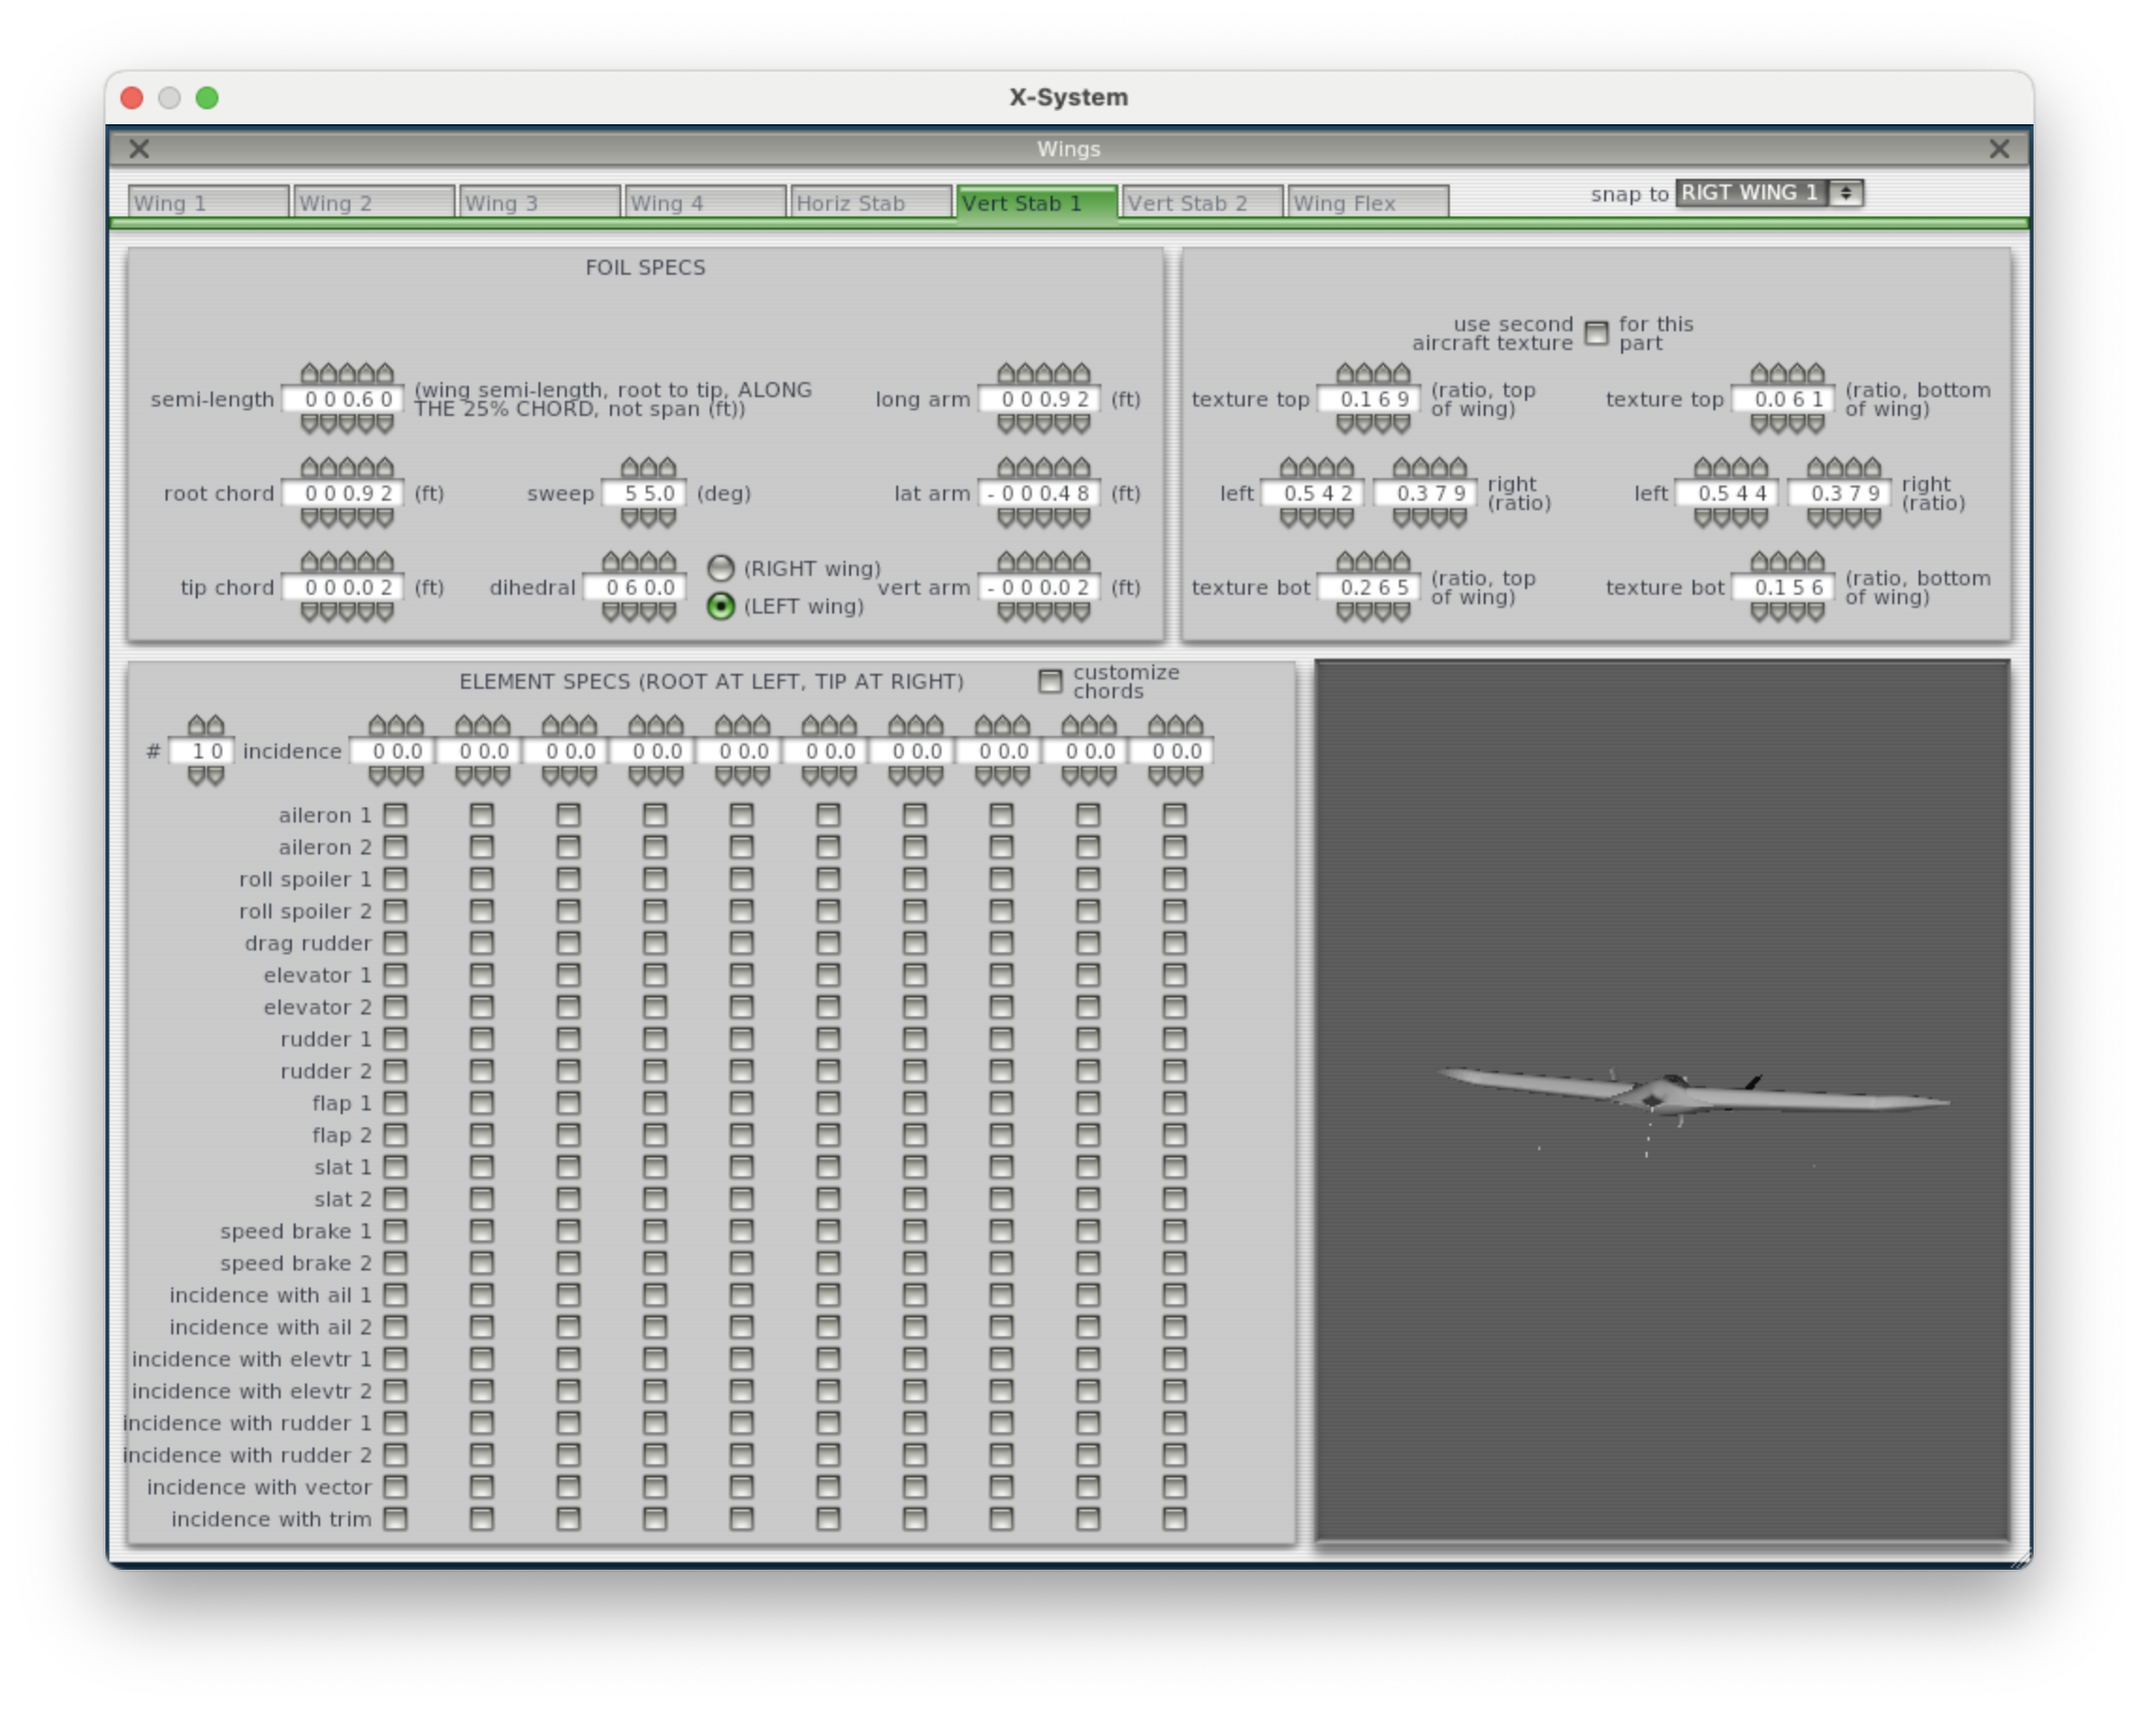
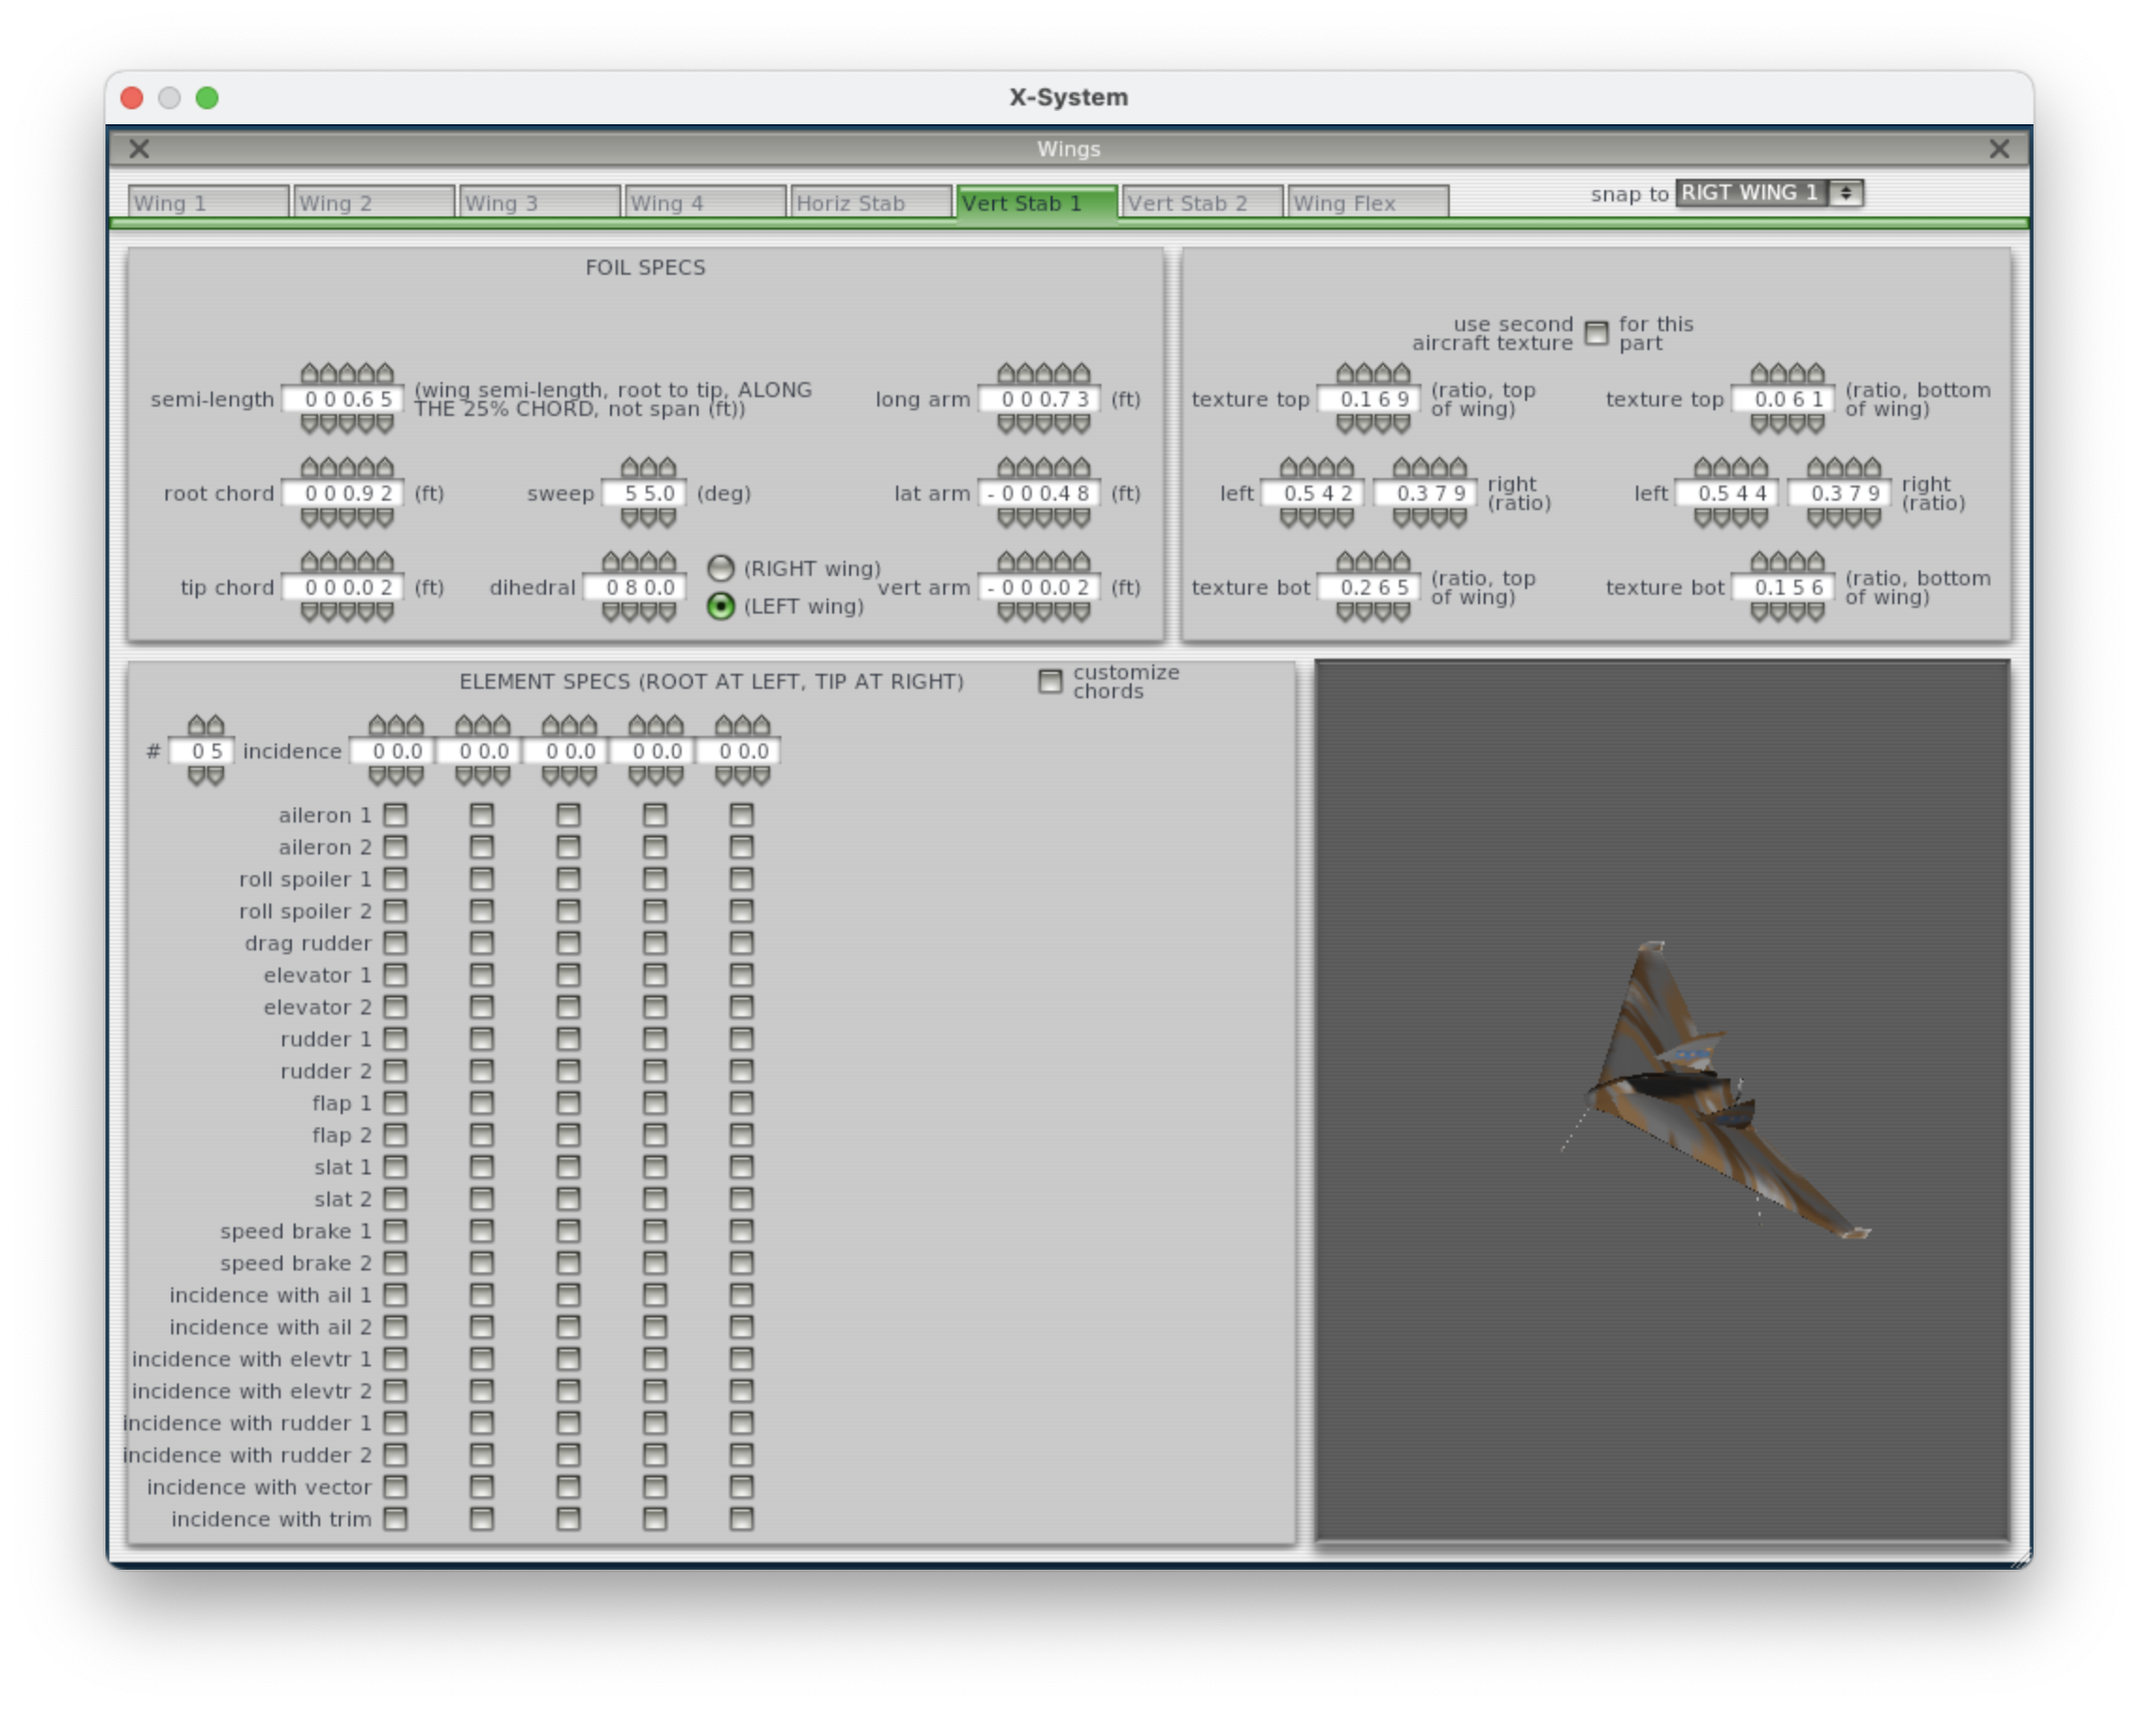
fix logbook 10 April 2026

Changed region(s): [[0.3438, 0.4009, 0.5625, 0.8943], [0.6875, 0.5551, 0.9062, 0.7401]]

diff --git a/01_10 April 2026/logbook_10_april_2026.md b/01_10 April 2026/logbook_10_april_2026.md
@@ -120,35 +120,37 @@ Menghubungkan dua laptop dalam satu sesi X-Plane — satu sebagai player (pengen
 
 ---
 
-## 3. Penambahan Custom Aircraft SATRIA Phantom
+## 3. Penambahan Custom Aircraft SATRIA
 
 **Kegiatan:**
-Menambahkan model pesawat custom SATRIA Phantom ke dalam library X-Plane sebagai wahana utama pengujian HITL.
+Menambahkan model pesawat custom SATRIA ke dalam library X-Plane sebagai wahana utama pengujian HITL.
 
 **Sumber model:**
-Model SATRIA Phantom diambil dari forum X-Plane.org: [https://forums.x-plane.org/files/file/33623-fx-61-uav/](https://forums.x-plane.org/files/file/33623-fx-61-uav/)
+Model SATRIA terinspirasi dari model FX-61 dari forum X-Plane.org: [https://forums.x-plane.org/files/file/33623-fx-61-uav/](https://forums.x-plane.org/files/file/33623-fx-61-uav/). Beberapa tambahan pada settingan sayap, wingtip, landing gear, JATO dan texture.
 
 **Langkah:**
-1. Unduh file `SATRIA.zip` dari forum X-Plane.org (link di atas)
+1. Unduh file `SATRIA.zip` dari repositori [https://github.com/musaelhanafi/logbook-opsi/blob/main/01_10%20April%202026/SATRIA.zip](Log book tanggal 10 April 2026)
 2. Ekstrak (unzip) `SATRIA.zip` ke direktori `X-Plane/Aircraft/Extra Aircraft/`
    - Pastikan hasil ekstrak membentuk folder `SATRIA/` berisi file `.acf`, `.param`, dan tekstur
-3. Buka X-Plane → pilih aircraft SATRIA Phantom dari menu Aircraft
+3. Buka X-Plane → pilih aircraft SATRIA dari menu Aircraft
 3. Verifikasi model aerodinamika: karakteristik fixed-wing delta wing tampil sesuai
 4. Uji kontrol dasar (aileron, elevator, throttle) dalam mode manual di X-Plane
 
-**Spesifikasi SATRIA Phantom:**
+**Spesifikasi SATRIA:**
 - Bentang sayap: ±1.5 m (delta flying wing)
 - Kecepatan cruise: ±65–80 km/h
-- Payload: mendukung kamera/seeker mount
+- Payload: mendukung kamera + seeker mount
 
-**Hasil:** SATRIA Phantom berhasil dimuat di X-Plane, model fisika dan kontrol permukaan berfungsi normal.
+**Hasil:** SATRIA berhasil dimuat di X-Plane, model fisika dan kontrol permukaan berfungsi normal.
+
+![SATRIA di Plane Maker — tampilan awal](X_PlaneMaker.png)
 
 ---
 
 ## 4. Modifikasi SATRIA — Penambahan JATO (Jet Assisted Take Off)
 
 **Kegiatan:**
-Modifikasi model SATRIA Phantom di X-Plane untuk menambahkan sistem JATO guna mendukung takeoff tanpa runway panjang.
+Modifikasi model SATRIA di X-Plane untuk menambahkan sistem JATO guna mendukung takeoff tanpa runway panjang.
 
 **Metode modifikasi (Plane Maker):**
 1. Buka file `.acf` SATRIA di **Plane Maker** (tools bawaan X-Plane)
@@ -183,26 +185,24 @@ Modifikasi model SATRIA Phantom di X-Plane untuk menambahkan sistem JATO guna me
 
 **Hasil:** JATO berhasil ditambahkan. SATRIA mampu melakukan accelerated takeoff dalam jarak < 30 m di X-Plane menggunakan dorongan JATO.
 
-![Plane Maker — JATO & Special Contents SATRIA Phantom](jato_planmaker.png)
+![Plane Maker — JATO & Special Contents SATRIA](jato_planemaker.png)
+
+![Plane Maker — Konfigurasi JATO SATRIA](jato_planemaker.png)
 
 ---
 
 ## 4b. Konfigurasi Wing SATRIA — Plane Maker
 
 **Kegiatan:**
-Verifikasi dan modifikasi parameter sayap (Wing 1 & Wing 2) SATRIA Phantom di Plane Maker.
+Verifikasi dan modifikasi parameter sayap (Wing 1 & Wing 2) SATRIA di Plane Maker.
 
 ### Tampilan 3D SATRIA di Plane Maker
 
-Visualisasi 3D model SATRIA Phantom di Plane Maker (menu Standard → Wings). File aircraft: `Aircraft/Extra Aircraft/SATRIA/SATRIA.acf`.
+Visualisasi 3D model SATRIA di Plane Maker (menu Standard → Wings). File aircraft: `Aircraft/Extra Aircraft/SATRIA/SATRIA.acf`.
 
-![Plane Maker — 3D View SATRIA Phantom](X_PlaneMaker.png)
+![Plane Maker — 3D View SATRIA](X_PlaneMaker.png)
 
-### Wing 1 — Kondisi Original (Sebelum Modifikasi)
-
-![Plane Maker — Wing 1 Original](Original_wing_planemaker.png)
-
-### Wing 1 — Foil Specs (Setelah Modifikasi)
+### Wing 1 — Foil Specs
 
 | Parameter | Nilai | Satuan | Keterangan |
 |---|---|---|---|
@@ -218,7 +218,7 @@ Visualisasi 3D model SATRIA Phantom di Plane Maker (menu Standard → Wings). Fi
 ### Wing 1 — Element Specs
 
 - Jumlah elemen: **6** (root di kiri, tip di kanan)
-- Incidence seluruh elemen: **3.0°**
+- Incidence seluruh elemen: **1.0°**
 
 | Kontrol | Elemen Aktif | Keterangan |
 |---|---|---|
@@ -228,7 +228,7 @@ Visualisasi 3D model SATRIA Phantom di Plane Maker (menu Standard → Wings). Fi
 
 > **Catatan:** SATRIA adalah flying wing — aileron dan elevator digabung sebagai **elevon**. Tidak ada rudder, flap, atau slat yang aktif.
 
-![Plane Maker — Wing 1 SATRIA Phantom](Wing1_Planemaker.png)
+![Plane Maker — Wing 1 SATRIA](Wing1_Planemaker.png)
 
 ### Wing 2 — Foil Specs
 
@@ -255,22 +255,22 @@ Visualisasi 3D model SATRIA Phantom di Plane Maker (menu Standard → Wings). Fi
 
 > **Catatan:** Wing 2 berfungsi sebagai permukaan sekunder / strake. Tidak ada kontrol aktif.
 
-![Plane Maker — Wing 2 SATRIA Phantom](Wing2_Planemaker.png)
+![Plane Maker — Wing 2 SATRIA](Wing2_Planemaker.png)
 
 ---
 
 ## 4c. Konfigurasi Landing Gear SATRIA — Plane Maker
 
 **Kegiatan:**
-Verifikasi dan pencatatan parameter landing gear SATRIA Phantom di Plane Maker (tab Gear Loc).
+Verifikasi dan pencatatan parameter landing gear SATRIA di Plane Maker (tab Gear Loc).
 
 ### Tipe Gear
 
 | Gear | Tipe |
 |---|---|
-| Gear 1 (Nose) | Single |
-| Gear 2 (Main Kiri) | Single |
-| Gear 3 (Main Kanan) | Single |
+| Gear 1 (Nose) | simple |
+| Gear 2 (Main Kiri) | simple |
+| Gear 3 (Main Kanan) | simple |
 | Gear 4–10 | None |
 
 ### Posisi & Geometri (Gear Loc)
@@ -303,22 +303,22 @@ Verifikasi dan pencatatan parameter landing gear SATRIA Phantom di Plane Maker (
 
 > **Catatan:** Ketiga gear bersifat retractable. Tidak ada gear yang menggunakan castor.
 
-![Plane Maker — Landing Gear SATRIA Phantom](LandingGear_Planemaker.png)
+![Plane Maker — Landing Gear SATRIA](LandingGear_Planemaker.png)
 
 ---
 
 ## 4d. Konfigurasi Control Geometry SATRIA — Plane Maker
 
 **Kegiatan:**
-Verifikasi dan pencatatan parameter geometri kontrol permukaan (elevon) SATRIA Phantom di Plane Maker (tab Controls → Control Sizes).
+Verifikasi dan pencatatan parameter geometri kontrol permukaan (elevon) SATRIA di Plane Maker (tab Controls → Control Sizes).
 
 ### Control Sizes — Ukuran Permukaan Kontrol
 
 | Kontrol | Chord Ratio Root | Chord Ratio Tip | Tipe Permukaan | Keterangan |
 |---|---|---|---|---|
-| Aileron 1 | 0.20 | 0.20 | smooth with no gaps | Aktif (elevon roll) |
+| Aileron 1 | 0.25 | 0.25 | smooth with no gaps | Aktif (elevon roll) |
 | Aileron 2 | 0.00 | 0.00 | — | Tidak aktif |
-| Elevator 1 | 0.20 | 0.20 | smooth with no gaps | Aktif (elevon pitch) |
+| Elevator 1 | 0.25 | 0.25 | smooth with no gaps | Aktif (elevon pitch) |
 | Elevator 2 | 0.00 | 0.00 | — | Tidak aktif |
 | Rudder 1 | 0.00 | 0.00 | — | Tidak aktif |
 | Rudder 2 | 0.00 | 0.00 | — | Tidak aktif |
@@ -347,20 +347,22 @@ Verifikasi dan pencatatan parameter geometri kontrol permukaan (elevon) SATRIA P
 | Flap speed ratio at deploy-start | 1.0 | — |
 | Flap detents | 0.1 | — |
 
-![Plane Maker — Control Geometry SATRIA Phantom](control_geometry_planmaker.png)
+![Plane Maker — Control Geometry SATRIA](control_geometry_planmaker.png)
+
+![Plane Maker — Control Geometry SATRIA (detail)](ControlGeometri_Planemaker.png)
 
 ### Trim & Speed Settings
 
 Pengaturan trim dan kecepatan kontrol permukaan SATRIA di Plane Maker (sub-tab Trim & Speed pada Control Geometry).
 
-![Plane Maker — Control Geometry Trim & Speed SATRIA Phantom](Trim_Planemaker.png)
+![Plane Maker — Control Geometry Trim & Speed SATRIA](Trim_Planemaker.png)
 
 ---
 
 ## 4e. Konfigurasi Stabilizer SATRIA — Plane Maker
 
 **Kegiatan:**
-Verifikasi parameter vertical stabilizer (winglet kiri & kanan) SATRIA Phantom di Plane Maker.
+Verifikasi parameter vertical stabilizer (winglet kiri & kanan) SATRIA di Plane Maker.
 
 SATRIA adalah flying wing — tidak memiliki fin vertikal konvensional. Vert Stab 1 dan Vert Stab 2 memodelkan **dua winglet** di ujung sayap kiri dan kanan sebagai permukaan stabilisasi yaw pasif.
 
@@ -388,7 +390,7 @@ Konfigurasi: **RIGHT wing** aktif (winglet kanan).
 
 > **Catatan:** Vert Stab 1 adalah permukaan **pasif** — berfungsi sebagai winglet kanan murni tanpa defleksi aktif. Yaw control pada SATRIA dilakukan melalui diferensial throttle atau differential elevon, bukan rudder.
 
-![Plane Maker — Vert Stab 1 SATRIA Phantom](Stab1_Planemaker.png)
+![Plane Maker — Vert Stab 1 SATRIA](Stab1_Planemaker.png)
 
 ### Vert Stab 2 — Foil Specs
 
@@ -414,27 +416,27 @@ Konfigurasi: **BOTH wings** aktif (kedua sisi — radio button RIGHT wing dan LE
 
 > **Catatan:** Vert Stab 2 dikonfigurasi dengan **BOTH wings** (kedua sisi), sehingga Plane Maker menampilkan model winglet simetris di kiri dan kanan. Semua kontrol permukaan tetap tidak aktif (pasif).
 
-![Plane Maker — Vert Stab 2 SATRIA Phantom](Stab2_planemaker.png)
+![Plane Maker — Vert Stab 2 SATRIA](Stab2_planemaker.png)
 
 ---
 
 ## 4f. Weight & Balance SATRIA — Plane Maker
 
 **Kegiatan:**
-Verifikasi konfigurasi weight & balance SATRIA Phantom di Plane Maker.
+Verifikasi konfigurasi weight & balance SATRIA di Plane Maker.
 
 ### Center of Gravity
 
 | Parameter | Nilai | Satuan | Keterangan |
 |---|---|---|---|
-| Long CG | 0.77 | ft | Posisi CG longitudinal (forward limit) |
+| Long CG | 0.74 | ft | Posisi CG longitudinal (forward limit) |
 | Vert CG | 0.0 | ft | Posisi CG vertikal |
 
 ### Weights
 
 | Parameter | Nilai | Satuan | Keterangan |
 |---|---|---|---|
-| Empty weight | 5.0 | lbs | Berat kosong pesawat |
+| Empty weight | 3.2 | lbs | Berat kosong pesawat |
 | Fuel load | 0.0 | lbs | Berat bahan bakar |
 | JATO weight | 0.0 | lbs | Dari Special Cannon screen |
 | Jettisionable load | 0.0 | lbs | Beban yang dapat dilepas |
@@ -442,7 +444,7 @@ Verifikasi konfigurasi weight & balance SATRIA Phantom di Plane Maker.
 | Weight shift weight | 0.0 | lbs | Beban penggeser CG |
 | Displaced weight | 0.0 | lbs | Untuk dirigibles/blimps |
 
-![Plane Maker — Weight & Balance SATRIA Phantom](WeightandBalance_Planemaker.png)
+![Plane Maker — Weight & Balance SATRIA](WeightandBalance_Planemaker.png)
 
 ---
 
@@ -466,7 +468,7 @@ Menambahkan custom airport Bandara Husein Sastranegara (ICAO: WICC) ke dalam lin
 ## 6. Uji Coba Terbang SATRIA di Lokasi WICC — X-Plane
 
 **Kegiatan:**
-Uji coba penerbangan perdana SATRIA Phantom di lingkungan simulasi Bandara Husein Sastranegara (WICC).
+Uji coba penerbangan perdana SATRIA di lingkungan simulasi Bandara Husein Sastranegara (WICC).
 
 **Skenario pengujian:**
 1. Spawn SATRIA di threshold runway 11 WICC
@@ -502,7 +504,7 @@ Uji coba penerbangan perdana SATRIA Phantom di lingkungan simulasi Bandara Husei
 |---|---|---|
 | 1 | Instalasi X-Plane, VS Code, QGroundControl, Git, toolchain ArduPilot | ✅ Selesai |
 | 2 | Verifikasi koneksi X-Plane via LAN (2 laptop) | ✅ Selesai |
-| 3 | Tambah custom aircraft SATRIA Phantom | ✅ Selesai |
+| 3 | Tambah custom aircraft SATRIA | ✅ Selesai |
 | 4 | Modifikasi SATRIA + JATO & Equipment Options (Special Contents) | ✅ Selesai |
 | 4b | Konfigurasi Wing 1 & Wing 2 SATRIA — Plane Maker (Foil & Element Specs) | ✅ Selesai |
 | 4c | Konfigurasi Landing Gear SATRIA — Plane Maker (Gear Loc) | ✅ Selesai |
